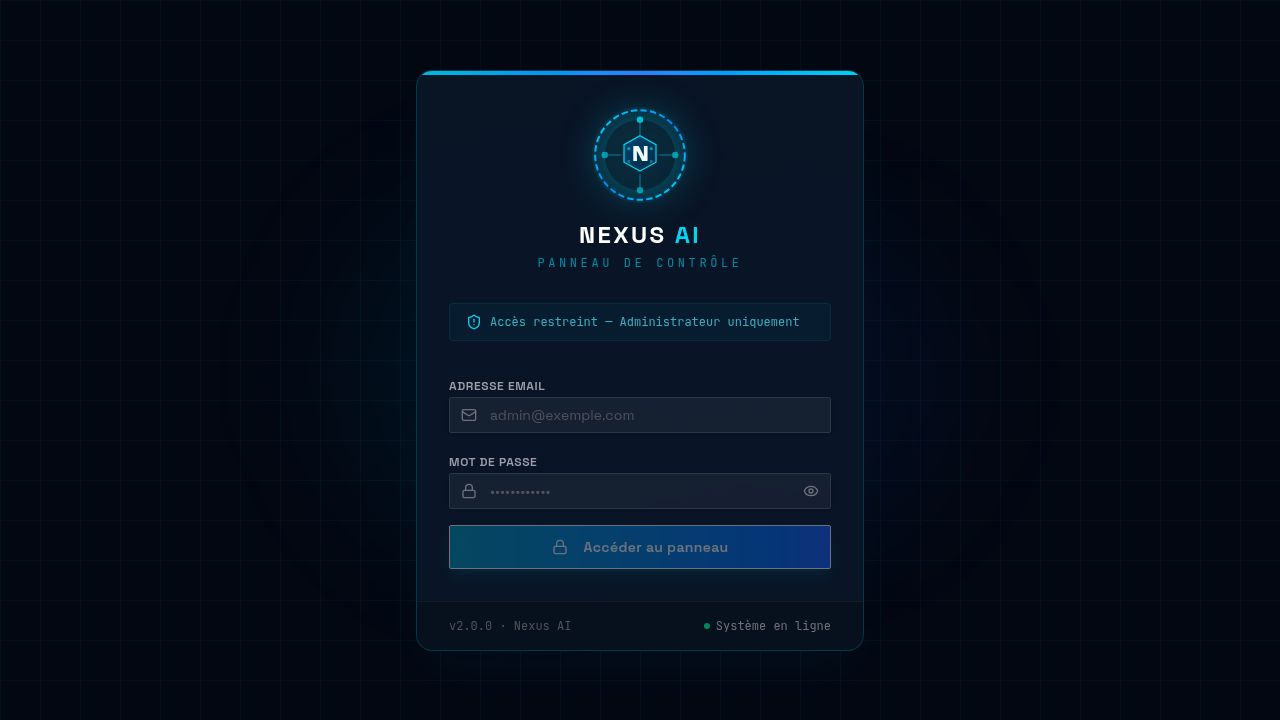
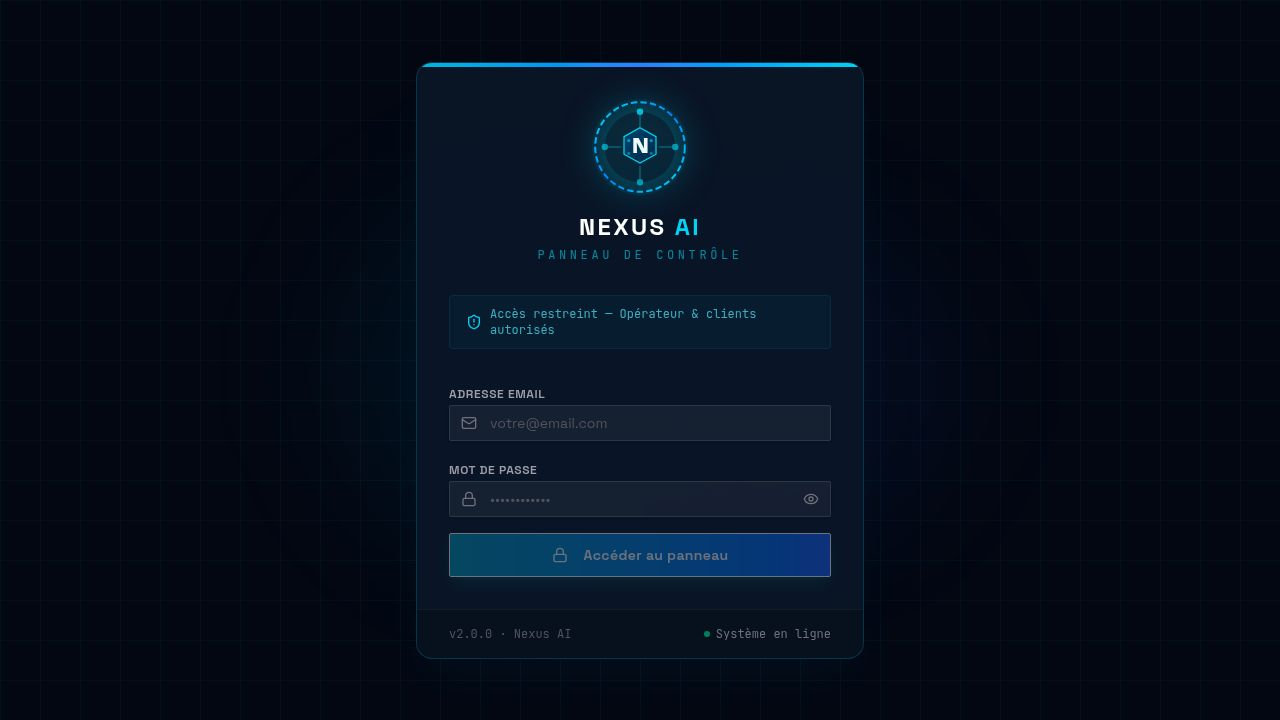
Update backend to use Supabase database connection
Modify python-backend/main.py to prioritize SUPABASE_DATABASE_URL over DATABASE_URL for database connection.

Replit-Commit-Author: Agent
Replit-Commit-Session-Id: 79068ffe-3243-4b2f-9d25-35bc45d57a4f
Replit-Commit-Checkpoint-Type: full_checkpoint
Replit-Commit-Event-Id: b05c2f80-fed8-49d7-beae-0274a409995b
Replit-Commit-Screenshot-Url: https://storage.googleapis.com/screenshot-production-us-central1/90aa69e3-68dc-4bef-a26d-7ebd5e3c1127/79068ffe-3243-4b2f-9d25-35bc45d57a4f/xYrjPJ1
Replit-Helium-Checkpoint-Created: true

diff --git a/python-backend/main.py b/python-backend/main.py
@@ -37,7 +37,7 @@ logger = logging.getLogger(__name__)
 
 API_ID = os.getenv("TELEGRAM_API_ID")
 API_HASH = os.getenv("TELEGRAM_API_HASH")
-DATABASE_URL = os.getenv("DATABASE_URL", "")
+DATABASE_URL = os.getenv("SUPABASE_DATABASE_URL") or os.getenv("DATABASE_URL", "")
 OPENAI_API_KEY = os.getenv("OPENAI_API_KEY")
 GEMINI_API_KEY = os.getenv("GEMINI_API_KEY")
 